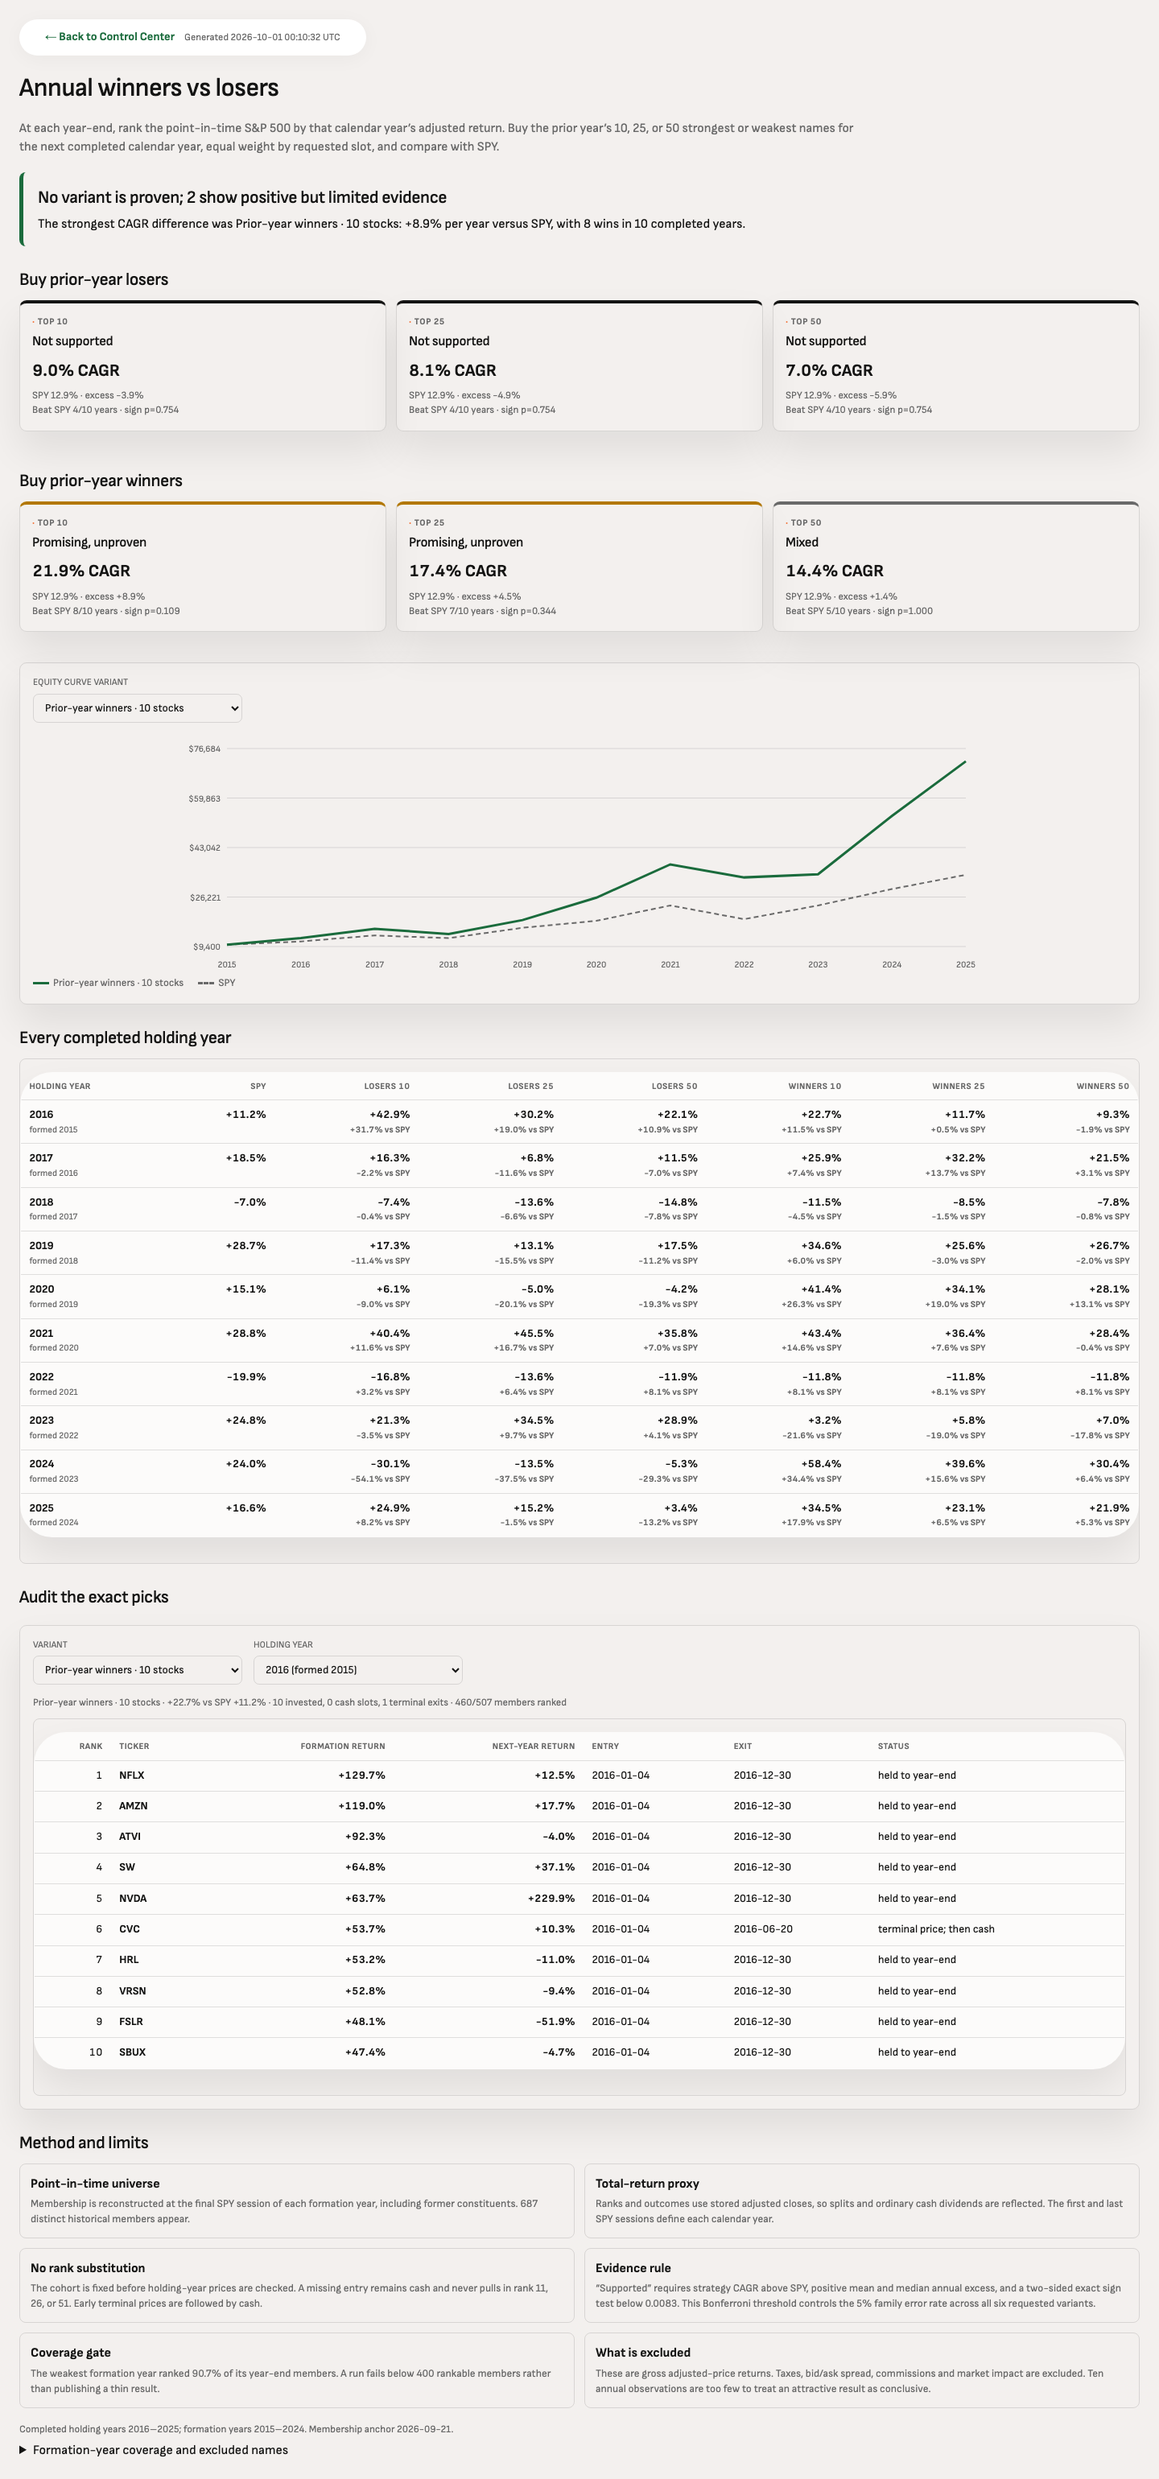
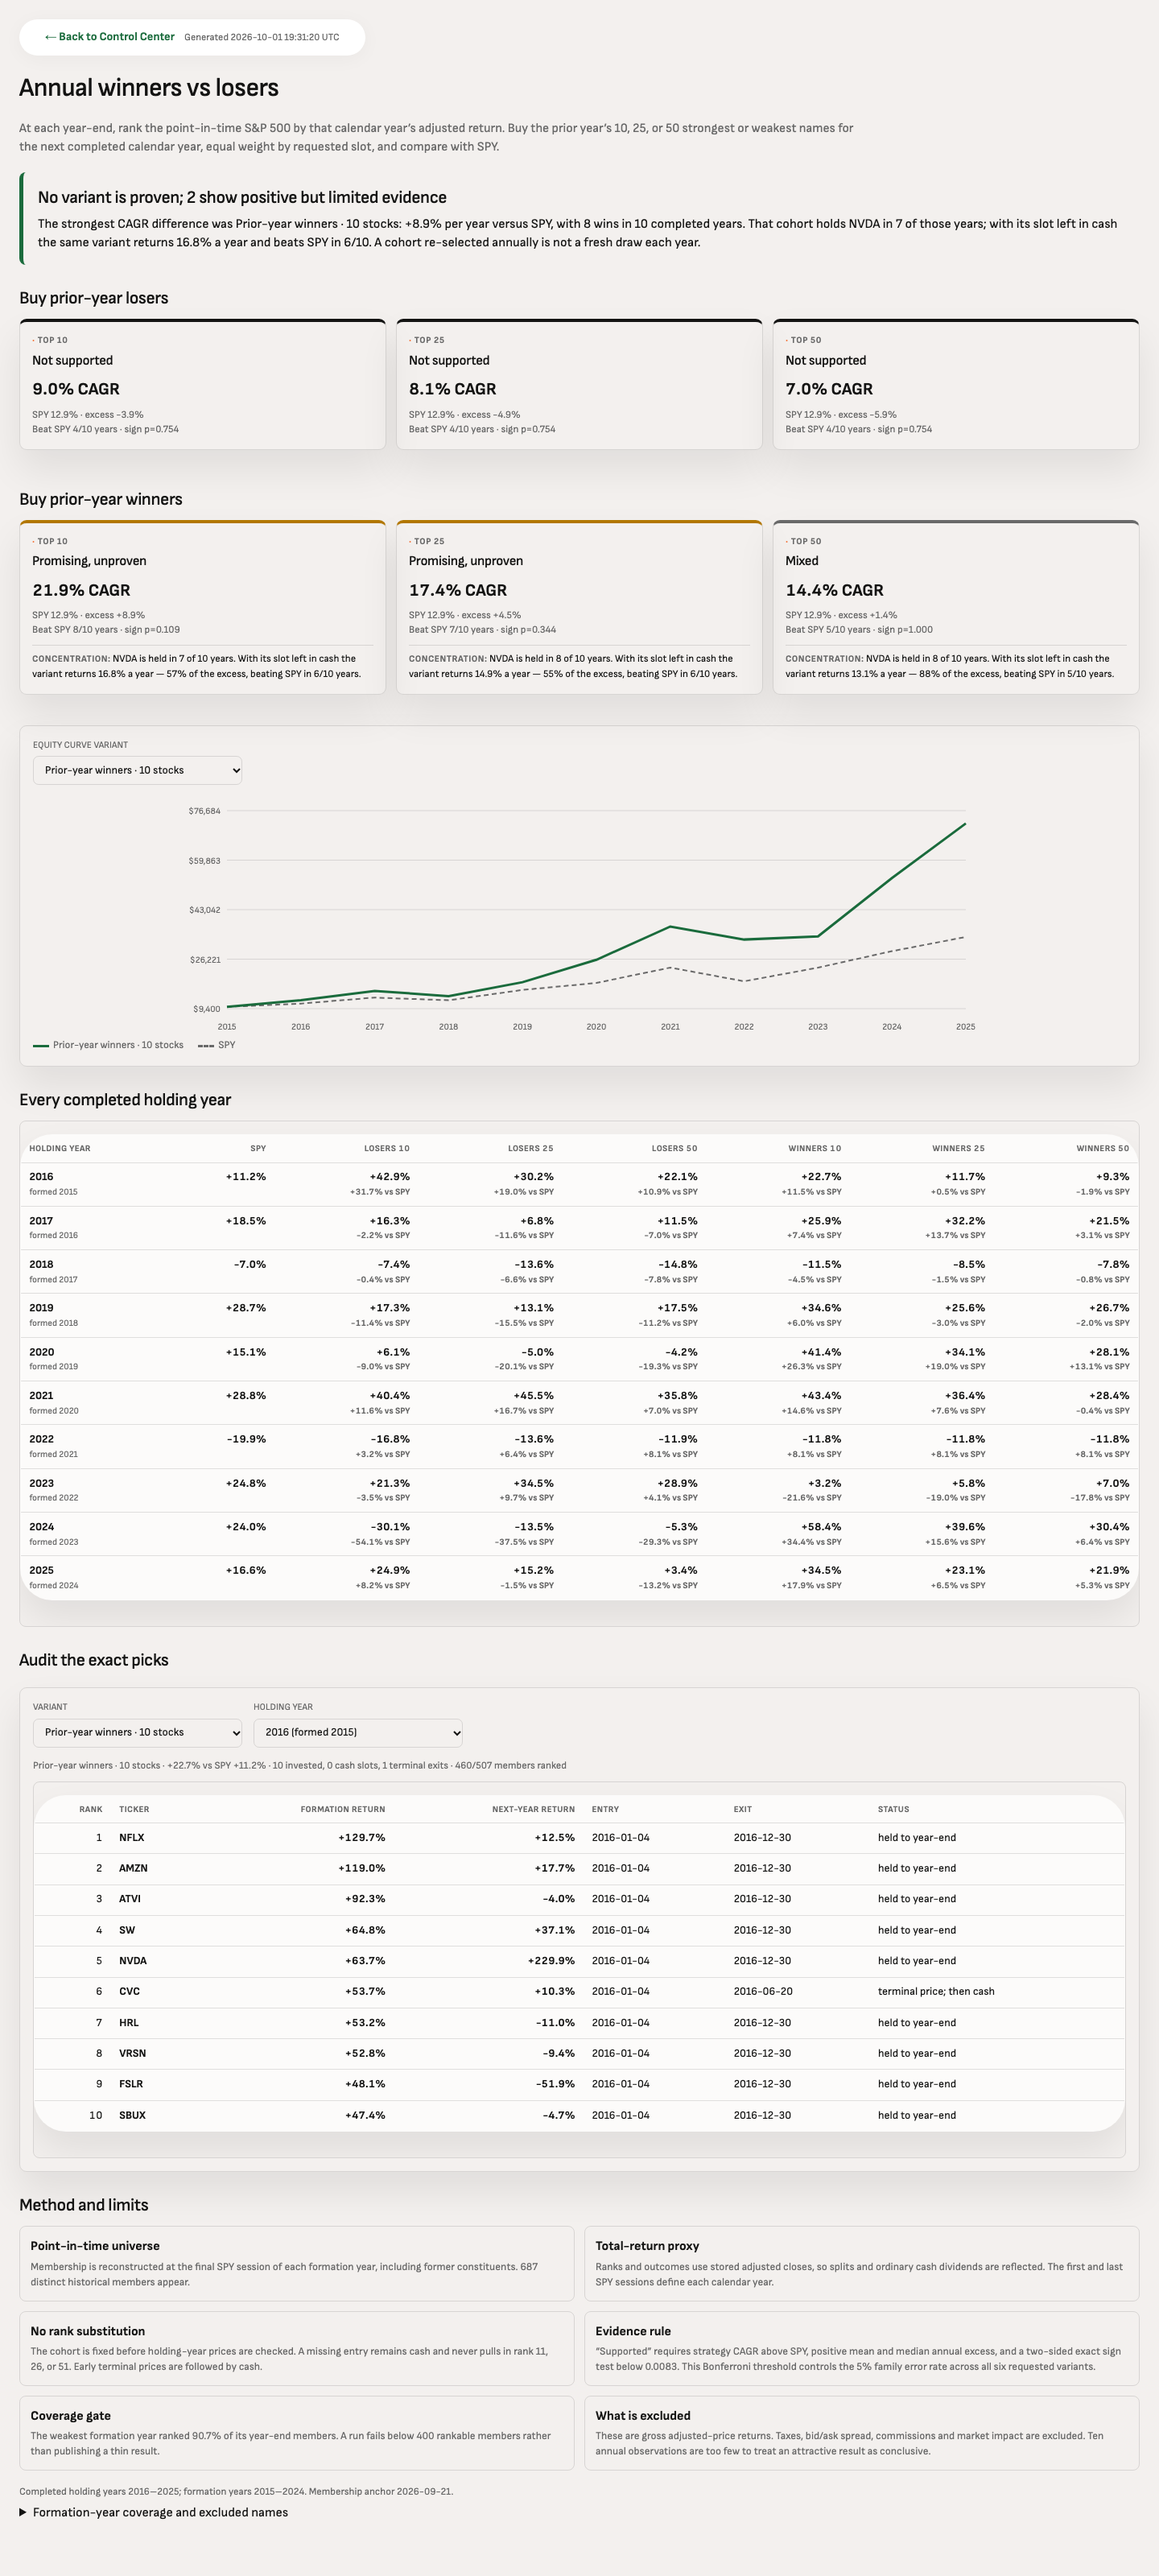
docs: show annual factor concentration risk

diff --git a/README.md b/README.md
@@ -335,7 +335,10 @@ across the six requested variants. Costs and taxes are disclosed as excluded.
 7.0–9.0% versus SPY&rsquo;s 12.9%. Prior-year winners were stronger, led by the
 10-stock cohort at 21.9% CAGR and 8 wins in 10 years, but its exact sign test was
 `p=0.109`; the product therefore labels it **Promising, unproven** rather than
-turning the best historical line into a deployable strategy.
+turning the best historical line into a deployable strategy. That cohort also
+held NVDA in 7 of 10 years. Leaving NVDA&rsquo;s slot in cash lowered CAGR to 16.8%
+and the SPY win count to 6/10, making the strategy&rsquo;s single-name dependence
+visible beside the headline result.
 
 ### Case study — deterministic S&P 500 Reversal Watch
 
